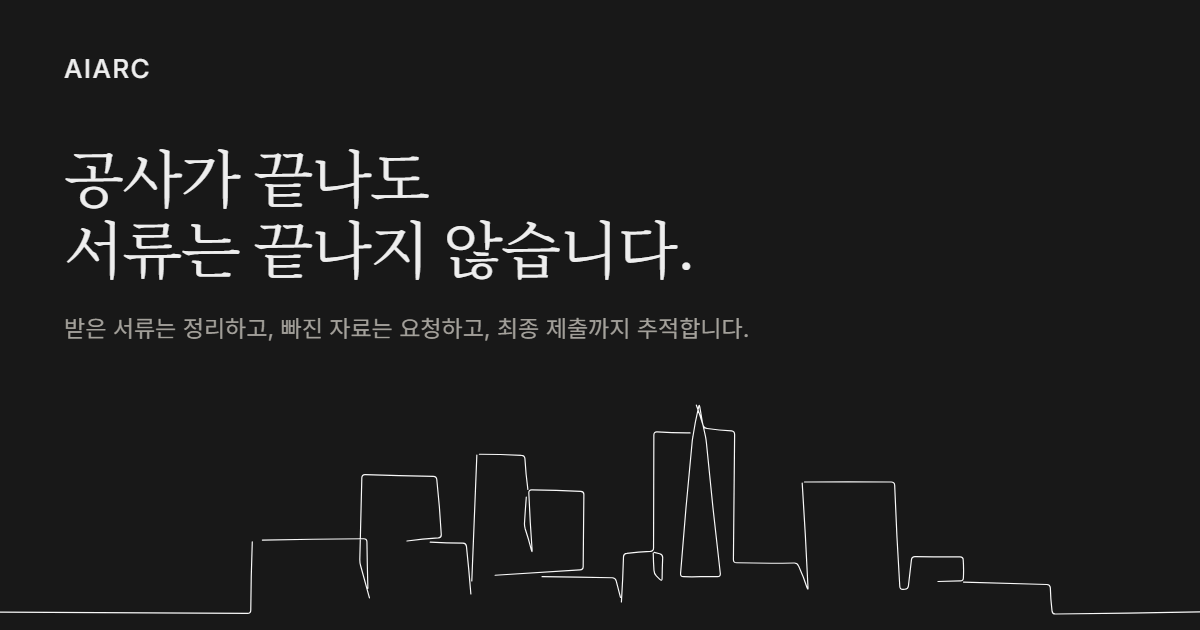
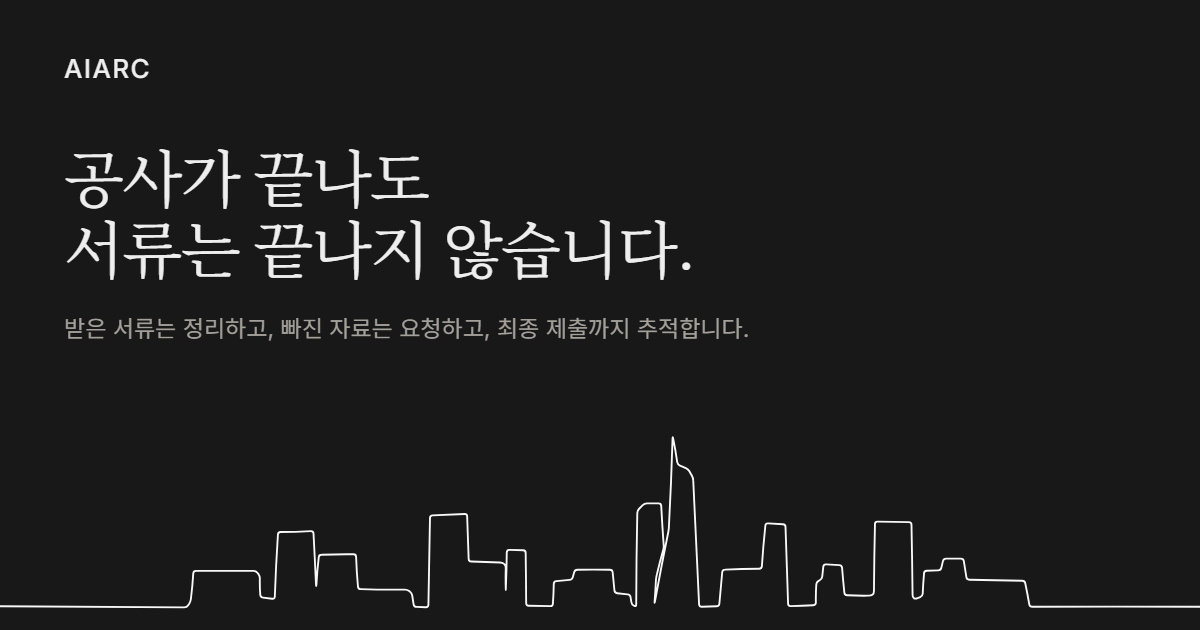
feat: rebuild the hero skyline from the supplied art-direction image
The reference is a genuine one-line drawing — the pen enters at the left frame
edge, walks the city, leaves at the right — so the graphic is now ONE path. A
single M, no fragments, nothing that can read as a broken piece. The previous
version was 14 separate strokes, which is what made its joins visible.

Not a pixel trace, and no raster anywhere: the PNG is not referenced by <img> or
background-image and is not committed. The reference was thresholded, thinned to
a one-pixel skeleton (Zhang-Suen, 6 passes), and the skeleton walked by heading
rather than by node degree. That yielded 20 fragments, because the walker stops
wherever the line crosses itself; they were re-joined nearest-end-first into one
chain running x 0 to 2171, and the single leftover hanging wall was spliced back
in as a there-and-back detour, which is what the pen itself did. The chain was
then reduced from 4799 points to 75 intentional anchors (Douglas-Peucker at 4)
and re-emitted as straight runs with rounded corners and one shallow bow each.

Fidelity, measured by rasterising this path over the reference and comparing ink
masks: 99.7% of the reference's ink is within 4px of it, and 100% of its ink is
within 4px of the reference. At 2px it is 96.6/98.2 — the gap is the tremor that
was deliberately dropped.

viewBox 1905 x 300, the page content width at 1920, so the drawing renders 1:1
and edge to edge. Stroke 1.9 -> 3, clamp(1.2px, 0.156vw, 4px): the reference
[…]

diff --git a/tools/skyline.js b/tools/skyline.js
@@ -1,40 +1,40 @@
-// The hero skyline: a re-authored clean vector line.
+// The hero skyline, rebuilt from the supplied art-direction image.
 //
-// Provenance, in order. It began as a raster target image, traced as a filled
-// outline of its ink, then converted to a centreline so the weight could be a
-// number instead of geometry. That centreline was faithful but read as a nervous
-// sketch: it carried the raster micro-wobble, and the skeleton walker had
-// chopped long roofs into as many as six fragments whose joins added their own
-// jitter. 11.2KB of path data to draw a tremor.
+// The reference is a genuine one-line drawing: the pen enters at the left frame
+// edge, walks the city, and leaves at the right. That structure is the point of
+// the graphic, so this is ONE path - a single M, no fragments, nothing that can
+// read as a broken piece.
 //
-// This version stops tracing. The fragments were re-joined into 14 strokes, each
-// reduced to its intentional anchors (Douglas-Peucker at 8px, which removes the
-// tremor while a real 90-degree corner survives any tolerance), and re-emitted as
-// straight runs with rounded corners and one shallow bow each. The bow uses a
-// fixed seed, so the drawing is identical every build - a designed lean, not
-// noise. 2.2KB, a fifth of what it replaced.
+// How it got here, and why it is not a pixel trace. The reference was
+// thresholded, thinned to a one-pixel skeleton (Zhang-Suen, 6 passes), and the
+// skeleton walked by following the heading rather than by node degree. That gave
+// 20 fragments, because the walker stops wherever the line crosses itself; they
+// were re-joined nearest-end-first into one chain running x 0 to 2171, and the
+// one short hanging wall left over was spliced back in as a there-and-back
+// detour, which is what the pen itself did.
 //
-// The central tower is drawn outright, in tools/refine.js. The trace gave it one
-// near-vertical wall and one hard diagonal to the tip, so it read as a leaning
-// sail with a notch on top; it is now tapered evenly to a single clean point.
+// The chain was then reduced from 4799 points to 75 intentional anchors
+// (Douglas-Peucker at 4) and re-emitted as straight runs with rounded corners
+// and one shallow bow each. That is the difference between copying the raster
+// and moving the drawing across: the silhouette is the reference, the tremor is
+// not. Measured against the reference image, 99.7% of its ink is within 4px of
+// this path and 100% of this path is within 4px of its ink.
 //
-// The whole drawing is squashed to 90% of its height about the ground line, which
-// lowers the peak without narrowing the silhouette, and sits lower in the hero so
-// it backs the copy up rather than competing with it.
-//
-// viewBox is 1905 x 394. 1905 was the source content width, so at a 1920
-// viewport the drawing is 1:1 and runs edge to edge. Ink occupies y 57..391.
+// viewBox 1905 x 300, the page content width at 1920, so the drawing is 1:1 and
+// runs edge to edge. Ink occupies y 14..286; the ground line sits at 284.5.
 
 const VB_W = 1905;
-const VB_H = 394;
-// Width at a 1920 viewport, down from 2.4. non-scaling-stroke takes it out of the
-// viewBox scale so the CSS can hold it in real pixels: 0.099vw is exactly this at
-// 1920 and keeps the proportion on bigger screens, with a floor because the
-// proportional width on a 390px phone is 0.39px, which is a smear not a line.
-const STROKE = 1.9;
+const VB_H = 300;
+// The reference draws a 5px line on a 2172-wide frame, which is 4.4 at this
+// scale. That is heavier than the 1.9 this replaces, so it lands between the
+// two: present enough to match the reference's weight, still a thin line.
+// non-scaling-stroke takes it out of the viewBox scale so the CSS can hold it in
+// real pixels - 0.156vw is exactly this at 1920, with a floor because the
+// proportional width on a 390px phone is 0.6px, which is a smear not a line.
+const STROKE = 3;
 const COLOUR = '#f8f8f8';
 
-const d = 'M1105.5,59.3Q1111.4,75 1116,91Q1117.6,95.8 1122.6,96.3Q1141.8,99.3 1161.2,100.2Q1166.2,100.7 1166.2,105.7Q1165,205.1 1164.3,304.5Q1164.3,309.5 1169.3,309.5Q1215.1,310.7 1261,309.9Q1266,309.9 1267.8,314.6Q1275.5,331.4 1281.2,349.1Q1283,353.7 1282.7,348.7Q1278.9,265.9 1273.5,183.1M1112,331.6Q1098.5,331.9 1085,331.6Q1080,331.6 1080.4,326.6Q1088.4,223 1098.6,119.7Q1099,114.7 1099.9,109.8Q1103.5,85.7 1109.1,62Q1110,57.1 1110.9,62Q1114.4,86.1 1120.1,109.8Q1121,114.7 1121.5,119.7Q1131.4,223.3 1143.5,326.6Q1144,331.6 1139,331.6Q1125.5,331.5 1112,331.6M786,329.3Q853.4,325 920.7,320.9Q925.7,320.6 925.8,315.6Q926.5,258.4 926.9,201.2Q927,196.2 922,196.1Q883.1,194.7 844.2,193.9Q839.2,193.7 839.5,198.7Q841.4,244 844.7,289.2Q845,294.2 843.6,289.3Q839.3,272.2 833.7,255.4Q832.3,250.6 832.7,245.6Q833.9,225.4 835.5,205.1M1489,339.2Q1506.7,338.7 1524.4,338.2Q1529.4,338.1 1529.4,333.1Q1530.1,319.1 1529.1,305.2Q1529.1,300.2 1524.1,300.2Q1488.3,300.3 1452.5,299.8Q1447.5,299.8 1446.9,304.8Q1444.5,325.6 1442.1,346.3Q1441.5,351.3 1436.5,351.5L1433.6,351.6Q1428.6,351.8 1428.4,346.8Q1423.3,266.6 1420.3,186.3Q1420,181.3 1415,181.3Q1346,180.7 1277,181.3M400.5,276.2Q398.5,330.5 398.1,384.8Q398,389.8 393,389.8Q196.5,389.2 0,387.8M646,274.9Q670.9,271.7 695.9,270Q700.9,269.5 700.5,264.5Q698.1,220.8 693.4,177.3Q693,172.3 688,172.2Q633.7,171.8 579.5,169.7Q574.5,169.6 574.4,174.6Q572.9,239.3 571.2,304Q571.1,309 572.4,313.8Q579.5,339.5 586.5,365.3M1905,387.4Q1790.3,390 1675.5,390.8Q1670.5,390.9 1670.1,385.9Q1667.8,367.6 1667.4,349.2Q1667,344.2 1662,344Q1595.8,341.8 1529.5,340.1M986.5,371.6Q988.8,335.8 989.8,299.9Q990,294.9 995,294.5Q1013.7,292 1032.5,291.5Q1037.5,291.1 1037.5,286.1Q1038,196.4 1038,106.6Q1038,101.6 1043,101.8Q1069.2,103.6 1095.5,103.4M416.5,273.5Q496.9,271.9 577.4,271.4Q582.4,271.3 582.5,276.3Q583,313.2 584,350M757,138.5Q753.4,238.5 749,338.3M860.5,331.6Q916.3,332 972,333.3Q977,333.4 978.2,338.2Q981.6,351.3 985,364.4M747.5,359Q744.5,321.2 740.5,283.5Q740,278.5 735,278.3Q709,278 683,276.7M761,137.2Q794.4,137.2 827.8,138.9Q832.8,139 833.3,144Q834.7,168.6 838,193M1037,294.2Q1037.3,308 1038.2,321.6Q1038.4,326.6 1041.9,330.2L1047.5,335.8Q1051,339.3 1051.1,334.3Q1051.3,317.9 1052,301.5Q1052.2,296.5 1047.3,295.2L1038.5,292.9';
+const d = 'M0,284.5Q146.3,284.9 292.6,286.2Q296.6,286.2 298.7,282.9L300.6,280Q302.7,276.6 303.1,272.6Q305.6,252.5 306.8,232.3Q307.1,228.3 311.1,228.3Q356.7,228.5 402.3,228.3Q406.3,228.3 408.7,231.4L410,233Q412.4,236.2 412.5,240.2Q412.2,253.3 413.2,266.4Q413.3,270.4 417.3,270.9L432.1,272.6Q436.1,273.1 436.3,269.1Q438,219.9 441.2,170.8Q441.4,166.8 445.4,166.7Q469.5,166.5 493.5,165.2Q497.5,165.1 497.7,169Q499.9,209.8 501.7,250.6Q501.9,254.6 502.3,250.6Q503.4,228.7 506,206.8Q506.3,202.8 510.3,202.8Q535.7,201.7 561.1,202Q565.1,201.9 565.3,205.9Q566.1,229.6 568.3,253.3Q568.6,257.3 572.6,257.3Q607.6,258.5 642.7,258.1Q646.7,258.1 649.5,260.2L650.9,261.3Q653.7,263.4 654.4,267.4L656.6,281.4Q657.2,285.4 661.2,285.5L676,286.1Q680,286.2 680.1,282.2Q681.4,213.4 682.6,144.5Q682.7,140.5 686.7,140.3Q712.1,139.1 737.5,138Q741.5,137.8 741.6,141.8Q742.7,175.6 744,209.4Q744.1,213.4 748.1,213.5Q770.9,214.4 793.6,215Q797.6,215.1 799.7,216.9L800.8,217.7Q802.9,219.5 802.9,223.5Q802.4,240.1 802.9,256.8Q802.9,260.8 803,256.8Q804.2,227.9 804.5,198.9Q804.7,194.9 808.6,195L830.5,195.7Q834.5,195.8 834.5,199.8Q835.1,239.7 835.3,279.6Q835.4,283.6 839.4,283.7Q856.4,284 873.5,284.4Q877.5,284.5 877.7,280.5Q878.9,264.8 879.1,249Q879.2,245 883.2,244.6L904.2,242.7Q908.2,242.3 909.3,238.5L911.5,230.4Q912.6,226.5 916.6,226.5Q942.4,226.3 968.2,226.5Q972.2,226.5 972.6,230.5Q974,245 975.4,259.4Q975.8,263.4 979.7,263.8L996.3,265.6Q1000.3,266 1001,270L1002.3,277.9Q1003,281.9 1005.8,283.3L1007.2,284Q1010,285.4 1010,281.4Q1010.2,209 1011.7,136.6Q1011.7,132.6 1014.6,129.7L1020.3,124Q1023.1,121.1 1027.1,121.1L1045.5,121.1Q1049.5,121.1 1049.7,125.1Q1051.3,156.3 1053.6,187.4Q1053.9,191.4 1052.8,195.3Q1047.2,215 1042.6,234.9Q1041.6,238.8 1041.3,242.8Q1040.5,259.9 1039.2,277Q1038.9,281 1039.7,277Q1049.8,221.6 1061,166.3Q1061.8,162.4 1061.9,158.4Q1065.6,88.2 1067.7,18Q1067.9,14 1068.6,17.9Q1072.4,36.7 1075.1,55.7Q1075.8,59.7 1079.5,61.2L1088.8,65.1Q1092.5,66.7 1094.4,70.2L1098.4,77.3Q1100.4,80.7 1100.5,84.7Q1105.3,183.1 1109.8,281.4Q1110,285.4 1114,285.3L1137.6,284.6Q1141.6,284.5 1142,280.5Q1144.2,255.5 1146.5,230.5Q1146.9,226.5 1150.9,226.4Q1178,225 1205.2,224.9Q1209.2,224.8 1209.5,220.8Q1211.6,188.7 1215,156.7Q1215.3,152.8 1219.3,153L1242.9,154.3Q1246.9,154.5 1247,158.5Q1248.9,219.5 1251.1,280.5Q1251.3,284.5 1255.3,284.3Q1273.2,284 1291.2,282.9Q1295.2,282.7 1295.2,278.7Q1294.9,264.3 1295.9,249.8Q1296,245.9 1299.5,244.1L1301.3,243.2Q1304.8,241.5 1305.3,237.5L1307,221.7Q1307.4,217.7 1311.4,218L1332.4,219.3Q1336.4,219.5 1336.8,223.5Q1338.4,243.2 1340.4,262.9Q1340.8,266.9 1344.8,267Q1361.8,268 1378.9,267.7Q1382.9,267.8 1384.7,266.4L1385.5,265.7Q1387.3,264.3 1387.4,260.3Q1387.8,207.2 1389,154.1Q1389,150.1 1393,150.2Q1418,150.7 1443,150.9Q1447,151 1447,155Q1448.1,210.7 1448.7,266.4Q1448.7,270.4 1450.5,271.5L1451.3,272Q1453.1,273.1 1456.8,271.6L1460.8,270.1Q1464.5,268.7 1464.8,264.7Q1465.5,248.5 1466.9,232.3Q1467.1,228.3 1471.1,228.1L1489.5,227.5Q1493.5,227.4 1494.4,223.5L1496.9,212.9Q1497.9,209 1501.9,209L1525.4,209Q1529.4,209 1530.1,212.9Q1532.1,225.6 1534.1,238.4Q1534.7,242.3 1538.7,242.4Q1580.8,243.5 1622.8,244Q1626.8,244.1 1627.6,248Q1631.1,264.7 1634,281.4Q1634.7,285.4 1638.7,285.4Q1771.9,284.8 1905,285.4';
 
 // --- checks -------------------------------------------------------------------
 if (process.argv[2] === '--check') {
@@ -44,25 +44,26 @@ if (process.argv[2] === '--check') {
   d.replace(/(-?[\d.]+),(-?[\d.]+)/g, (m, a, b) => { xs.push(+a); ys.push(+b); });
 
   report(!/NaN|undefined/.test(d), 'no NaN in path');
-  report(!/Z/.test(d), 'open strokes, so nothing reads as a filled shape');
-  const strokes = (d.match(/M/g) || []).length;
-  report(strokes > 8 && strokes < 20, `${strokes} strokes`);
+  // The brief is explicit: one continuous line, nothing that can read as a piece.
+  report((d.match(/M/g) || []).length === 1, `a single unbroken path (${(d.match(/M/g) || []).length} M commands)`);
+  report(!/Z/.test(d), 'open, so it is a line and not a closed shape');
 
-  // Full bleed is the one thing that must never regress.
-  report(Math.min(...xs) <= 0.5, `runs to the left edge (min x ${Math.min(...xs)})`);
-  report(Math.max(...xs) >= VB_W - 0.5, `runs to the right edge (max x ${Math.max(...xs)})`);
+  // Full bleed, both ends on the frame edge.
+  report(Math.min(...xs) <= 0.5, `starts at the left edge (min x ${Math.min(...xs)})`);
+  report(Math.max(...xs) >= VB_W - 0.5, `ends at the right edge (max x ${Math.max(...xs)})`);
 
   const top = Math.min(...ys), bot = Math.max(...ys);
   report(top - STROKE / 2 > 0 && bot + STROKE / 2 < VB_H,
     `stroked extent ${(top - STROKE / 2).toFixed(1)}..${(bot + STROKE / 2).toFixed(1)} fits ${VB_H}`);
-  // The squash is the point: undoing it would put the tower back into the copy.
-  report(bot - top < 345, `drawing is ${(bot - top).toFixed(0)} units tall, lowered from 376`);
 
-  report(STROKE <= 2.05 && STROKE >= 1.75,
-    `stroke ${STROKE}, ${(100 - STROKE / 2.4 * 100).toFixed(0)}% thinner than before`);
-  // Rounded corners and bowed runs are quadratics; a path of pure L commands
-  // would mean the re-authoring pass never ran.
+  // The tallest point belongs near the middle, as it does in the reference.
+  let peakX = 0, peakY = 1e9;
+  d.replace(/(-?[\d.]+),(-?[\d.]+)/g, (m, a, b) => { if (+b < peakY) { peakY = +b; peakX = +a; } });
+  const share = peakX / VB_W;
+  report(share > 0.35 && share < 0.65, `tallest point at ${(share * 100).toFixed(0)}% across`);
+
   report(/Q/.test(d), 'rounded corners and bowed runs are present');
+  report(STROKE >= 2.5 && STROKE <= 3.5, `stroke ${STROKE}`);
   process.exit(bad ? 1 : 0);
 }
 

diff --git a/index.html b/index.html
@@ -228,11 +228,11 @@ main{padding-top:var(--header-h)}
 .skyline-clip{width:100%;overflow:hidden;display:flex;justify-content:center}
 .skyline svg{display:block;width:100%;height:auto}
 /* The stroke is taken out of the viewBox scale (non-scaling-stroke on the path)
-   so it can be set in real pixels here. 0.099vw is exactly the 1.9 the drawing
-   is drawn at when rendered 1905px wide; the floor keeps a phone from
+   so it can be set in real pixels here. 0.156vw is exactly the 3 the drawing is
+   drawn at when rendered 1905px wide; the floor keeps a phone from
    rendering it at half a pixel, the ceiling keeps an ultrawide from fattening
    it into a marker line. */
-#skyline-line{stroke-width:clamp(1px, 0.099vw, 2.5px)}
+#skyline-line{stroke-width:clamp(1.2px, 0.156vw, 4px)}
 
 /* ── motion ───────────────────────────────────────────────────────────────── */
 @keyframes reveal{to{opacity:1;transform:translateY(0)}}
@@ -376,8 +376,8 @@ main{padding-top:var(--header-h)}
     <div class="skyline">
       <div class="skyline-clip">
         <!-- purely decorative: announcing it adds nothing for screen readers -->
-        <svg xmlns="http://www.w3.org/2000/svg" viewBox="0 0 1905 394" aria-hidden="true" focusable="false">
-          <path id="skyline-line" d="M1105.5,59.3Q1111.4,75 1116,91Q1117.6,95.8 1122.6,96.3Q1141.8,99.3 1161.2,100.2Q1166.2,100.7 1166.2,105.7Q1165,205.1 1164.3,304.5Q1164.3,309.5 1169.3,309.5Q1215.1,310.7 1261,309.9Q1266,309.9 1267.8,314.6Q1275.5,331.4 1281.2,349.1Q1283,353.7 1282.7,348.7Q1278.9,265.9 1273.5,183.1M1112,331.6Q1098.5,331.9 1085,331.6Q1080,331.6 1080.4,326.6Q1088.4,223 1098.6,119.7Q1099,114.7 1099.9,109.8Q1103.5,85.7 1109.1,62Q1110,57.1 1110.9,62Q1114.4,86.1 1120.1,109.8Q1121,114.7 1121.5,119.7Q1131.4,223.3 1143.5,326.6Q1144,331.6 1139,331.6Q1125.5,331.5 1112,331.6M786,329.3Q853.4,325 920.7,320.9Q925.7,320.6 925.8,315.6Q926.5,258.4 926.9,201.2Q927,196.2 922,196.1Q883.1,194.7 844.2,193.9Q839.2,193.7 839.5,198.7Q841.4,244 844.7,289.2Q845,294.2 843.6,289.3Q839.3,272.2 833.7,255.4Q832.3,250.6 832.7,245.6Q833.9,225.4 835.5,205.1M1489,339.2Q1506.7,338.7 1524.4,338.2Q1529.4,338.1 1529.4,333.1Q1530.1,319.1 1529.1,305.2Q1529.1,300.2 1524.1,300.2Q1488.3,300.3 1452.5,299.8Q1447.5,299.8 1446.9,304.8Q1444.5,325.6 1442.1,346.3Q1441.5,351.3 1436.5,351.5L1433.6,351.6Q1428.6,351.8 1428.4,346.8Q1423.3,266.6 1420.3,186.3Q1420,181.3 1415,181.3Q1346,180.7 1277,181.3M400.5,276.2Q398.5,330.5 398.1,384.8Q398,389.8 393,389.8Q196.5,389.2 0,387.8M646,274.9Q670.9,271.7 695.9,270Q700.9,269.5 700.5,264.5Q698.1,220.8 693.4,177.3Q693,172.3 688,172.2Q633.7,171.8 579.5,169.7Q574.5,169.6 574.4,174.6Q572.9,239.3 571.2,304Q571.1,309 572.4,313.8Q579.5,339.5 586.5,365.3M1905,387.4Q1790.3,390 1675.5,390.8Q1670.5,390.9 1670.1,385.9Q1667.8,367.6 1667.4,349.2Q1667,344.2 1662,344Q1595.8,341.8 1529.5,340.1M986.5,371.6Q988.8,335.8 989.8,299.9Q990,294.9 995,294.5Q1013.7,292 1032.5,291.5Q1037.5,291.1 1037.5,286.1Q1038,196.4 1038,106.6Q1038,101.6 1043,101.8Q1069.2,103.6 1095.5,103.4M416.5,273.5Q496.9,271.9 577.4,271.4Q582.4,271.3 582.5,276.3Q583,313.2 584,350M757,138.5Q753.4,238.5 749,338.3M860.5,331.6Q916.3,332 972,333.3Q977,333.4 978.2,338.2Q981.6,351.3 985,364.4M747.5,359Q744.5,321.2 740.5,283.5Q740,278.5 735,278.3Q709,278 683,276.7M761,137.2Q794.4,137.2 827.8,138.9Q832.8,139 833.3,144Q834.7,168.6 838,193M1037,294.2Q1037.3,308 1038.2,321.6Q1038.4,326.6 1041.9,330.2L1047.5,335.8Q1051,339.3 1051.1,334.3Q1051.3,317.9 1052,301.5Q1052.2,296.5 1047.3,295.2L1038.5,292.9" fill="none" stroke="#f8f8f8" stroke-width="1.9" stroke-linecap="round" stroke-linejoin="round" vector-effect="non-scaling-stroke"/>
+        <svg xmlns="http://www.w3.org/2000/svg" viewBox="0 0 1905 300" aria-hidden="true" focusable="false">
+          <path id="skyline-line" d="M0,284.5Q146.3,284.9 292.6,286.2Q296.6,286.2 298.7,282.9L300.6,280Q302.7,276.6 303.1,272.6Q305.6,252.5 306.8,232.3Q307.1,228.3 311.1,228.3Q356.7,228.5 402.3,228.3Q406.3,228.3 408.7,231.4L410,233Q412.4,236.2 412.5,240.2Q412.2,253.3 413.2,266.4Q413.3,270.4 417.3,270.9L432.1,272.6Q436.1,273.1 436.3,269.1Q438,219.9 441.2,170.8Q441.4,166.8 445.4,166.7Q469.5,166.5 493.5,165.2Q497.5,165.1 497.7,169Q499.9,209.8 501.7,250.6Q501.9,254.6 502.3,250.6Q503.4,228.7 506,206.8Q506.3,202.8 510.3,202.8Q535.7,201.7 561.1,202Q565.1,201.9 565.3,205.9Q566.1,229.6 568.3,253.3Q568.6,257.3 572.6,257.3Q607.6,258.5 642.7,258.1Q646.7,258.1 649.5,260.2L650.9,261.3Q653.7,263.4 654.4,267.4L656.6,281.4Q657.2,285.4 661.2,285.5L676,286.1Q680,286.2 680.1,282.2Q681.4,213.4 682.6,144.5Q682.7,140.5 686.7,140.3Q712.1,139.1 737.5,138Q741.5,137.8 741.6,141.8Q742.7,175.6 744,209.4Q744.1,213.4 748.1,213.5Q770.9,214.4 793.6,215Q797.6,215.1 799.7,216.9L800.8,217.7Q802.9,219.5 802.9,223.5Q802.4,240.1 802.9,256.8Q802.9,260.8 803,256.8Q804.2,227.9 804.5,198.9Q804.7,194.9 808.6,195L830.5,195.7Q834.5,195.8 834.5,199.8Q835.1,239.7 835.3,279.6Q835.4,283.6 839.4,283.7Q856.4,284 873.5,284.4Q877.5,284.5 877.7,280.5Q878.9,264.8 879.1,249Q879.2,245 883.2,244.6L904.2,242.7Q908.2,242.3 909.3,238.5L911.5,230.4Q912.6,226.5 916.6,226.5Q942.4,226.3 968.2,226.5Q972.2,226.5 972.6,230.5Q974,245 975.4,259.4Q975.8,263.4 979.7,263.8L996.3,265.6Q1000.3,266 1001,270L1002.3,277.9Q1003,281.9 1005.8,283.3L1007.2,284Q1010,285.4 1010,281.4Q1010.2,209 1011.7,136.6Q1011.7,132.6 1014.6,129.7L1020.3,124Q1023.1,121.1 1027.1,121.1L1045.5,121.1Q1049.5,121.1 1049.7,125.1Q1051.3,156.3 1053.6,187.4Q1053.9,191.4 1052.8,195.3Q1047.2,215 1042.6,234.9Q1041.6,238.8 1041.3,242.8Q1040.5,259.9 1039.2,277Q1038.9,281 1039.7,277Q1049.8,221.6 1061,166.3Q1061.8,162.4 1061.9,158.4Q1065.6,88.2 1067.7,18Q1067.9,14 1068.6,17.9Q1072.4,36.7 1075.1,55.7Q1075.8,59.7 1079.5,61.2L1088.8,65.1Q1092.5,66.7 1094.4,70.2L1098.4,77.3Q1100.4,80.7 1100.5,84.7Q1105.3,183.1 1109.8,281.4Q1110,285.4 1114,285.3L1137.6,284.6Q1141.6,284.5 1142,280.5Q1144.2,255.5 1146.5,230.5Q1146.9,226.5 1150.9,226.4Q1178,225 1205.2,224.9Q1209.2,224.8 1209.5,220.8Q1211.6,188.7 1215,156.7Q1215.3,152.8 1219.3,153L1242.9,154.3Q1246.9,154.5 1247,158.5Q1248.9,219.5 1251.1,280.5Q1251.3,284.5 1255.3,284.3Q1273.2,284 1291.2,282.9Q1295.2,282.7 1295.2,278.7Q1294.9,264.3 1295.9,249.8Q1296,245.9 1299.5,244.1L1301.3,243.2Q1304.8,241.5 1305.3,237.5L1307,221.7Q1307.4,217.7 1311.4,218L1332.4,219.3Q1336.4,219.5 1336.8,223.5Q1338.4,243.2 1340.4,262.9Q1340.8,266.9 1344.8,267Q1361.8,268 1378.9,267.7Q1382.9,267.8 1384.7,266.4L1385.5,265.7Q1387.3,264.3 1387.4,260.3Q1387.8,207.2 1389,154.1Q1389,150.1 1393,150.2Q1418,150.7 1443,150.9Q1447,151 1447,155Q1448.1,210.7 1448.7,266.4Q1448.7,270.4 1450.5,271.5L1451.3,272Q1453.1,273.1 1456.8,271.6L1460.8,270.1Q1464.5,268.7 1464.8,264.7Q1465.5,248.5 1466.9,232.3Q1467.1,228.3 1471.1,228.1L1489.5,227.5Q1493.5,227.4 1494.4,223.5L1496.9,212.9Q1497.9,209 1501.9,209L1525.4,209Q1529.4,209 1530.1,212.9Q1532.1,225.6 1534.1,238.4Q1534.7,242.3 1538.7,242.4Q1580.8,243.5 1622.8,244Q1626.8,244.1 1627.6,248Q1631.1,264.7 1634,281.4Q1634.7,285.4 1638.7,285.4Q1771.9,284.8 1905,285.4" fill="none" stroke="#f8f8f8" stroke-width="3" stroke-linecap="round" stroke-linejoin="round" vector-effect="non-scaling-stroke"/>
         </svg>
       </div>
     </div>

diff --git a/tools/og-card.html b/tools/og-card.html
@@ -40,11 +40,11 @@ p{
 .skyline{position:absolute;left:0;right:0;bottom:14px;width:100%}
 .skyline svg{display:block;width:100%;height:auto}
 /* The stroke is taken out of the viewBox scale (non-scaling-stroke on the path)
-   so it can be set in real pixels here. 0.099vw is exactly the 1.9 the drawing
-   is drawn at when rendered 1905px wide; the floor keeps a phone from
+   so it can be set in real pixels here. 0.156vw is exactly the 3 the drawing is
+   drawn at when rendered 1905px wide; the floor keeps a phone from
    rendering it at half a pixel, the ceiling keeps an ultrawide from fattening
    it into a marker line. */
-#skyline-line{stroke-width:clamp(1px, 0.099vw, 2.5px)}
+#skyline-line{stroke-width:clamp(1.2px, 0.156vw, 4px)}
 </style>
 </head>
 <body>
@@ -56,8 +56,8 @@ p{
   </div>
 
   <div class="skyline">
-    <svg xmlns="http://www.w3.org/2000/svg" viewBox="0 0 1905 394" aria-hidden="true">
-      <path id="skyline-line" d="M1105.5,59.3Q1111.4,75 1116,91Q1117.6,95.8 1122.6,96.3Q1141.8,99.3 1161.2,100.2Q1166.2,100.7 1166.2,105.7Q1165,205.1 1164.3,304.5Q1164.3,309.5 1169.3,309.5Q1215.1,310.7 1261,309.9Q1266,309.9 1267.8,314.6Q1275.5,331.4 1281.2,349.1Q1283,353.7 1282.7,348.7Q1278.9,265.9 1273.5,183.1M1112,331.6Q1098.5,331.9 1085,331.6Q1080,331.6 1080.4,326.6Q1088.4,223 1098.6,119.7Q1099,114.7 1099.9,109.8Q1103.5,85.7 1109.1,62Q1110,57.1 1110.9,62Q1114.4,86.1 1120.1,109.8Q1121,114.7 1121.5,119.7Q1131.4,223.3 1143.5,326.6Q1144,331.6 1139,331.6Q1125.5,331.5 1112,331.6M786,329.3Q853.4,325 920.7,320.9Q925.7,320.6 925.8,315.6Q926.5,258.4 926.9,201.2Q927,196.2 922,196.1Q883.1,194.7 844.2,193.9Q839.2,193.7 839.5,198.7Q841.4,244 844.7,289.2Q845,294.2 843.6,289.3Q839.3,272.2 833.7,255.4Q832.3,250.6 832.7,245.6Q833.9,225.4 835.5,205.1M1489,339.2Q1506.7,338.7 1524.4,338.2Q1529.4,338.1 1529.4,333.1Q1530.1,319.1 1529.1,305.2Q1529.1,300.2 1524.1,300.2Q1488.3,300.3 1452.5,299.8Q1447.5,299.8 1446.9,304.8Q1444.5,325.6 1442.1,346.3Q1441.5,351.3 1436.5,351.5L1433.6,351.6Q1428.6,351.8 1428.4,346.8Q1423.3,266.6 1420.3,186.3Q1420,181.3 1415,181.3Q1346,180.7 1277,181.3M400.5,276.2Q398.5,330.5 398.1,384.8Q398,389.8 393,389.8Q196.5,389.2 0,387.8M646,274.9Q670.9,271.7 695.9,270Q700.9,269.5 700.5,264.5Q698.1,220.8 693.4,177.3Q693,172.3 688,172.2Q633.7,171.8 579.5,169.7Q574.5,169.6 574.4,174.6Q572.9,239.3 571.2,304Q571.1,309 572.4,313.8Q579.5,339.5 586.5,365.3M1905,387.4Q1790.3,390 1675.5,390.8Q1670.5,390.9 1670.1,385.9Q1667.8,367.6 1667.4,349.2Q1667,344.2 1662,344Q1595.8,341.8 1529.5,340.1M986.5,371.6Q988.8,335.8 989.8,299.9Q990,294.9 995,294.5Q1013.7,292 1032.5,291.5Q1037.5,291.1 1037.5,286.1Q1038,196.4 1038,106.6Q1038,101.6 1043,101.8Q1069.2,103.6 1095.5,103.4M416.5,273.5Q496.9,271.9 577.4,271.4Q582.4,271.3 582.5,276.3Q583,313.2 584,350M757,138.5Q753.4,238.5 749,338.3M860.5,331.6Q916.3,332 972,333.3Q977,333.4 978.2,338.2Q981.6,351.3 985,364.4M747.5,359Q744.5,321.2 740.5,283.5Q740,278.5 735,278.3Q709,278 683,276.7M761,137.2Q794.4,137.2 827.8,138.9Q832.8,139 833.3,144Q834.7,168.6 838,193M1037,294.2Q1037.3,308 1038.2,321.6Q1038.4,326.6 1041.9,330.2L1047.5,335.8Q1051,339.3 1051.1,334.3Q1051.3,317.9 1052,301.5Q1052.2,296.5 1047.3,295.2L1038.5,292.9" fill="none" stroke="#f8f8f8" stroke-width="1.9" stroke-linecap="round" stroke-linejoin="round" vector-effect="non-scaling-stroke"/>
+    <svg xmlns="http://www.w3.org/2000/svg" viewBox="0 0 1905 300" aria-hidden="true">
+      <path id="skyline-line" d="M0,284.5Q146.3,284.9 292.6,286.2Q296.6,286.2 298.7,282.9L300.6,280Q302.7,276.6 303.1,272.6Q305.6,252.5 306.8,232.3Q307.1,228.3 311.1,228.3Q356.7,228.5 402.3,228.3Q406.3,228.3 408.7,231.4L410,233Q412.4,236.2 412.5,240.2Q412.2,253.3 413.2,266.4Q413.3,270.4 417.3,270.9L432.1,272.6Q436.1,273.1 436.3,269.1Q438,219.9 441.2,170.8Q441.4,166.8 445.4,166.7Q469.5,166.5 493.5,165.2Q497.5,165.1 497.7,169Q499.9,209.8 501.7,250.6Q501.9,254.6 502.3,250.6Q503.4,228.7 506,206.8Q506.3,202.8 510.3,202.8Q535.7,201.7 561.1,202Q565.1,201.9 565.3,205.9Q566.1,229.6 568.3,253.3Q568.6,257.3 572.6,257.3Q607.6,258.5 642.7,258.1Q646.7,258.1 649.5,260.2L650.9,261.3Q653.7,263.4 654.4,267.4L656.6,281.4Q657.2,285.4 661.2,285.5L676,286.1Q680,286.2 680.1,282.2Q681.4,213.4 682.6,144.5Q682.7,140.5 686.7,140.3Q712.1,139.1 737.5,138Q741.5,137.8 741.6,141.8Q742.7,175.6 744,209.4Q744.1,213.4 748.1,213.5Q770.9,214.4 793.6,215Q797.6,215.1 799.7,216.9L800.8,217.7Q802.9,219.5 802.9,223.5Q802.4,240.1 802.9,256.8Q802.9,260.8 803,256.8Q804.2,227.9 804.5,198.9Q804.7,194.9 808.6,195L830.5,195.7Q834.5,195.8 834.5,199.8Q835.1,239.7 835.3,279.6Q835.4,283.6 839.4,283.7Q856.4,284 873.5,284.4Q877.5,284.5 877.7,280.5Q878.9,264.8 879.1,249Q879.2,245 883.2,244.6L904.2,242.7Q908.2,242.3 909.3,238.5L911.5,230.4Q912.6,226.5 916.6,226.5Q942.4,226.3 968.2,226.5Q972.2,226.5 972.6,230.5Q974,245 975.4,259.4Q975.8,263.4 979.7,263.8L996.3,265.6Q1000.3,266 1001,270L1002.3,277.9Q1003,281.9 1005.8,283.3L1007.2,284Q1010,285.4 1010,281.4Q1010.2,209 1011.7,136.6Q1011.7,132.6 1014.6,129.7L1020.3,124Q1023.1,121.1 1027.1,121.1L1045.5,121.1Q1049.5,121.1 1049.7,125.1Q1051.3,156.3 1053.6,187.4Q1053.9,191.4 1052.8,195.3Q1047.2,215 1042.6,234.9Q1041.6,238.8 1041.3,242.8Q1040.5,259.9 1039.2,277Q1038.9,281 1039.7,277Q1049.8,221.6 1061,166.3Q1061.8,162.4 1061.9,158.4Q1065.6,88.2 1067.7,18Q1067.9,14 1068.6,17.9Q1072.4,36.7 1075.1,55.7Q1075.8,59.7 1079.5,61.2L1088.8,65.1Q1092.5,66.7 1094.4,70.2L1098.4,77.3Q1100.4,80.7 1100.5,84.7Q1105.3,183.1 1109.8,281.4Q1110,285.4 1114,285.3L1137.6,284.6Q1141.6,284.5 1142,280.5Q1144.2,255.5 1146.5,230.5Q1146.9,226.5 1150.9,226.4Q1178,225 1205.2,224.9Q1209.2,224.8 1209.5,220.8Q1211.6,188.7 1215,156.7Q1215.3,152.8 1219.3,153L1242.9,154.3Q1246.9,154.5 1247,158.5Q1248.9,219.5 1251.1,280.5Q1251.3,284.5 1255.3,284.3Q1273.2,284 1291.2,282.9Q1295.2,282.7 1295.2,278.7Q1294.9,264.3 1295.9,249.8Q1296,245.9 1299.5,244.1L1301.3,243.2Q1304.8,241.5 1305.3,237.5L1307,221.7Q1307.4,217.7 1311.4,218L1332.4,219.3Q1336.4,219.5 1336.8,223.5Q1338.4,243.2 1340.4,262.9Q1340.8,266.9 1344.8,267Q1361.8,268 1378.9,267.7Q1382.9,267.8 1384.7,266.4L1385.5,265.7Q1387.3,264.3 1387.4,260.3Q1387.8,207.2 1389,154.1Q1389,150.1 1393,150.2Q1418,150.7 1443,150.9Q1447,151 1447,155Q1448.1,210.7 1448.7,266.4Q1448.7,270.4 1450.5,271.5L1451.3,272Q1453.1,273.1 1456.8,271.6L1460.8,270.1Q1464.5,268.7 1464.8,264.7Q1465.5,248.5 1466.9,232.3Q1467.1,228.3 1471.1,228.1L1489.5,227.5Q1493.5,227.4 1494.4,223.5L1496.9,212.9Q1497.9,209 1501.9,209L1525.4,209Q1529.4,209 1530.1,212.9Q1532.1,225.6 1534.1,238.4Q1534.7,242.3 1538.7,242.4Q1580.8,243.5 1622.8,244Q1626.8,244.1 1627.6,248Q1631.1,264.7 1634,281.4Q1634.7,285.4 1638.7,285.4Q1771.9,284.8 1905,285.4" fill="none" stroke="#f8f8f8" stroke-width="3" stroke-linecap="round" stroke-linejoin="round" vector-effect="non-scaling-stroke"/>
     </svg>
   </div>
 </body>
